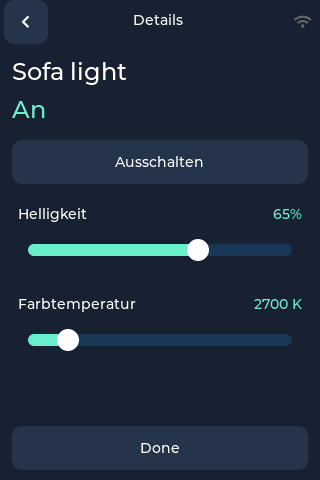
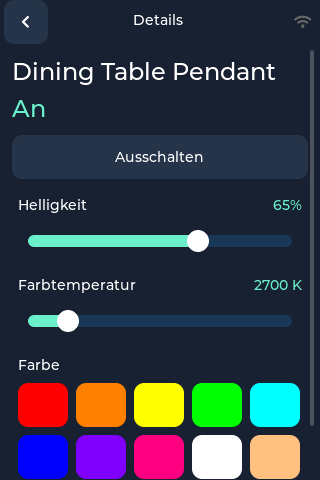
New layout on home assistant app

diff --git a/src/apps/HomeAssistantApp.cpp b/src/apps/HomeAssistantApp.cpp
@@ -24,12 +24,13 @@ void navigate(lv_event_t*e){auto n=HomeAssistantService::instance().config().pag
 void tap(lv_event_t*event){auto&s=HomeAssistantService::instance();auto&pages=s.config().pages;size_t i=reinterpret_cast<intptr_t>(lv_event_get_user_data(event));bool details=i>=ha::MaxTiles;i%=ha::MaxTiles;if(ctx.page>=pages.size()||i>=pages[ctx.page].tiles.size())return;ctx.detail=pages[ctx.page].tiles[i].id;auto d=ha::domain(ctx.detail);
  if(details||d=="sensor"||d=="binary_sensor"){ctx.view=1;render();return;}s.act(ctx.detail,d=="switch"||d=="light"?"toggle":"activate");refresh();}
 void toggle(lv_event_t*){HomeAssistantService::instance().act(ctx.detail,"toggle");refresh();}
+void color(lv_event_t*e){HomeAssistantService::instance().act(ctx.detail,"color",int(reinterpret_cast<intptr_t>(lv_event_get_user_data(e))));refresh();}
 void slider(lv_event_t*e){auto*o=static_cast<lv_obj_t*>(lv_event_get_target(e));const char*action=static_cast<const char*>(lv_event_get_user_data(e));HomeAssistantService::instance().act(ctx.detail,action,lv_slider_get_value(o));}
 const char*icon(const ha::Tile&t){auto kind=t.icon=="auto"||t.icon.empty()?ha::domain(t.id):t.icon;if(kind=="light")return LV_SYMBOL_CHARGE;if(kind=="switch"||kind=="power")return LV_SYMBOL_POWER;if(kind=="scene"||kind=="script"||kind=="play")return LV_SYMBOL_PLAY;if(kind=="water")return LV_SYMBOL_TINT;if(kind=="energy")return LV_SYMBOL_CHARGE;if(kind=="temperature")return "°";return LV_SYMBOL_EYE_OPEN;}
 std::string value(const ha::Entity*e){if(!e)return i18n::tr("Unavailable");const char*expected=HomeAssistantService::instance().expected_state(e->id);if(expected)return i18n::tr(std::string(expected)=="on"?"On":"Off");if(!e->available())return i18n::tr("Unavailable");auto d=ha::domain(e->id);if(d=="scene"||d=="script")return i18n::tr("Activate");if(e->state=="on")return i18n::tr("On");if(e->state=="off")return i18n::tr("Off");return e->state+(e->unit.empty()?"":" "+e->unit);}
-auto entity_fields(const ha::Entity&e){return std::tie(e.id,e.state,e.unit,e.brightness,e.kelvin,e.min_kelvin,e.max_kelvin,e.dimmable,e.warmth);}
+auto entity_fields(const ha::Entity&e){return std::tie(e.id,e.state,e.unit,e.brightness,e.kelvin,e.min_kelvin,e.max_kelvin,e.dimmable,e.warmth,e.color);}
 void render(){
- auto&s=HomeAssistantService::instance();ctx.revision=s.revision();ctx.connected=s.connected();ctx.status=nullptr;ctx.notice=nullptr;for(auto&t:ctx.tiles)t={};ctx.layout=s.layout_revision();lv_obj_clean(ctx.body);int w=lv_obj_get_width(ctx.body);lv_label_set_text(ctx.title,i18n::tr(ctx.view==2?"Configure Home":ctx.view==1?"Details":"Home"));
+ auto&s=HomeAssistantService::instance();ctx.revision=s.revision();ctx.connected=s.connected();ctx.status=nullptr;ctx.notice=nullptr;for(auto&t:ctx.tiles)t={};ctx.layout=s.layout_revision();lv_obj_clean(ctx.body);lv_obj_scroll_to_y(ctx.body,0,LV_ANIM_OFF);if(ctx.view==1)lv_obj_add_flag(ctx.body,LV_OBJ_FLAG_SCROLLABLE);else lv_obj_remove_flag(ctx.body,LV_OBJ_FLAG_SCROLLABLE);int w=lv_obj_get_width(ctx.body);lv_label_set_text(ctx.title,i18n::tr(ctx.view==2?"Configure Home":ctx.view==1?"Details":"Home"));
  if(ctx.view==2){
   label(ctx.body,i18n::tr("Scan with your phone"),12,12,w-24,Mint,true);
   if(!s.setup_open()){label(ctx.body,i18n::tr("Setup expired. Open it again."),12,60,w-24);button(ctx.body,i18n::tr("Configure"),12,120,w-24,44,setup);return;}
@@ -43,18 +44,27 @@ void render(){
   ctx.detail_notice=s.notice();ctx.detail_pending=s.pending(ctx.detail);
   ctx.detail_entity=s.entity(ctx.detail)?*s.entity(ctx.detail):ha::Entity{};
   auto*t=tile();auto*e=s.entity(ctx.detail);if(!t){ctx.view=0;render();return;}
-  auto*l=label(ctx.body,t->name.empty()?ctx.detail:t->name,12,14,w-24,0xffffff,true);lv_label_set_long_mode(l,LV_LABEL_LONG_DOT);
-  label(ctx.body,value(e),12,52,w-24,ctx.connected?Mint:Muted,true);
+  auto*l=label(ctx.body,t->name.empty()?ctx.detail:t->name,12,14,w-24,0xffffff,true);lv_obj_update_layout(l);int titleBottom=14+lv_obj_get_height(l);
+  label(ctx.body,value(e),12,titleBottom+10,w-24,ctx.connected?Mint:Muted,true);
   bool enabled=ctx.connected&&e&&e->available()&&!s.pending(ctx.detail);auto domain=ha::domain(ctx.detail);
+  int footer=std::max(382,titleBottom+90);
   if(domain=="light"){
-   auto*b=button(ctx.body,i18n::tr((s.expected_state(ctx.detail)?std::string(s.expected_state(ctx.detail))=="on":e&&e->state=="on")?"Turn off":"Turn on"),12,96,w-24,44,toggle);if(!enabled)lv_obj_add_state(b,LV_STATE_DISABLED);
-   int y=162;
-   auto add_slider=[&](const char*name,const char*action,int min,int max,int current,const std::string&v){label(ctx.body,i18n::tr(name),18,y,w-36);auto*l=label(ctx.body,v,w-100,y,82,Mint);lv_obj_set_style_text_align(l,LV_TEXT_ALIGN_RIGHT,0);auto*sl=lv_slider_create(ctx.body);lv_obj_set_pos(sl,28,y+38);lv_obj_set_size(sl,w-56,12);lv_slider_set_range(sl,min,max);lv_slider_set_value(sl,std::max(min,std::min(max,current)),LV_ANIM_OFF);lv_obj_set_style_bg_color(sl,lv_color_hex(Mint),LV_PART_INDICATOR);lv_obj_set_style_bg_color(sl,lv_color_white(),LV_PART_KNOB);lv_obj_add_event_cb(sl,slider,LV_EVENT_RELEASED,const_cast<char*>(action));if(!enabled)lv_obj_add_state(sl,LV_STATE_DISABLED);y+=90;};
+   auto*b=button(ctx.body,i18n::tr((s.expected_state(ctx.detail)?std::string(s.expected_state(ctx.detail))=="on":e&&e->state=="on")?"Turn off":"Turn on"),12,titleBottom+50,w-24,44,toggle);if(!enabled)lv_obj_add_state(b,LV_STATE_DISABLED);
+   int y=titleBottom+112;
+   auto add_slider=[&](const char*name,const char*action,int min,int max,int current,const std::string&v){label(ctx.body,i18n::tr(name),18,y,w-36);auto*l=label(ctx.body,v,w-100,y,82,Mint);lv_obj_set_style_text_align(l,LV_TEXT_ALIGN_RIGHT,0);auto*sl=lv_slider_create(ctx.body);lv_obj_set_pos(sl,28,y+38);lv_obj_set_size(sl,w-56,12);lv_slider_set_range(sl,min,max);lv_slider_set_value(sl,std::max(min,std::min(max,current)),LV_ANIM_OFF);lv_obj_set_style_bg_color(sl,lv_color_hex(Mint),LV_PART_INDICATOR);lv_obj_set_style_bg_color(sl,lv_color_white(),LV_PART_KNOB);lv_obj_add_event_cb(sl,slider,LV_EVENT_RELEASED,const_cast<char*>(action));if(!enabled)lv_obj_add_state(sl,LV_STATE_DISABLED);y+=80;};
    if(e&&e->dimmable)add_slider("Brightness","brightness",0,100,e->brightness<0?0:(e->brightness*100+127)/255,std::to_string(e->brightness<0?0:(e->brightness*100+127)/255)+"%");
    if(e&&e->warmth)add_slider("Warmth","warmth",e->min_kelvin,e->max_kelvin,e->kelvin,std::to_string(e->kelvin)+" K");
-  }else label(ctx.body,ctx.detail,12,112,w-24,Muted);
-  if(!s.notice().empty())label(ctx.body,i18n::tr(s.notice().c_str()),12,344,w-24,0xffc66d);
-  button(ctx.body,i18n::tr("Done"),12,382,w-24,44,back);return;
+   if(e&&e->color){
+    label(ctx.body,i18n::tr("Color"),18,y,w-36);y+=26;
+    const uint32_t colors[]={0xff0000,0xff8000,0xffff00,0x00ff00,0x00ffff,0x0000ff,0x8000ff,0xff0080,0xffffff,0xffc080};
+    int sw=(w-36-4*8)/5;
+    for(int i=0;i<10;++i){auto*b=button(ctx.body,"",18+(i%5)*(sw+8),y+(i/5)*52,sw,44,color,colors[i],colors[i]);if(!enabled)lv_obj_add_state(b,LV_STATE_DISABLED);}
+    y+=108;
+   }
+   footer=std::max(footer,y);
+  }else label(ctx.body,ctx.detail,12,titleBottom+70,w-24,Muted);
+  if(!s.notice().empty()){auto*n=label(ctx.body,i18n::tr(s.notice().c_str()),12,footer,w-24,0xffc66d);lv_obj_update_layout(n);footer+=lv_obj_get_height(n)+12;}
+  button(ctx.body,i18n::tr("Done"),12,footer,w-24,44,back);return;
  }
  auto&pages=s.config().pages;
  if(pages.empty()||s.config().token.empty()){
@@ -62,14 +72,14 @@ void render(){
  }
  ctx.page=std::min(ctx.page,pages.size()-1);auto&p=pages[ctx.page];auto*heading=label(ctx.body,p.name,12,8,w-72,0xffffff,true);lv_label_set_long_mode(heading,LV_LABEL_LONG_DOT);button(ctx.body,LV_SYMBOL_SETTINGS,w-54,2,44,44,setup);
  ctx.status=label(ctx.body,i18n::tr(ctx.connected?"Connected - refreshes every 5s":s.busy()?"Connecting...":"Disconnected"),12,47,w-24,ctx.connected?Mint:Muted);
- int tw=(w-36)/2;
- for(size_t i=0;i<p.tiles.size();++i){auto&t=p.tiles[i];auto*b=button(ctx.body,"",12+(i%2)*(tw+12),66+(i/2)*94,tw,84,tap,i);
+ int tw=w-24;
+ for(size_t i=0;i<p.tiles.size();++i){auto&t=p.tiles[i];auto*b=button(ctx.body,"",12,66+i*47,tw,44,tap,i);
   bool light=ha::domain(t.id)=="light";int content=tw-(light?44:0);
-  if(light){auto*more=button(b,LV_SYMBOL_RIGHT,tw-44,0,44,84,tap,i+ha::MaxTiles);lv_obj_set_style_bg_opa(more,LV_OPA_TRANSP,0);lv_obj_remove_flag(more,LV_OBJ_FLAG_EVENT_BUBBLE);}
-  auto*symbol=label(b,icon(t),(content-24)/2,5,24,Muted,true);lv_obj_clear_flag(symbol,LV_OBJ_FLAG_CLICKABLE);
-  auto*name=label(b,t.name.empty()?t.id:t.name,6,35,content-12);lv_obj_set_style_text_align(name,LV_TEXT_ALIGN_CENTER,0);lv_obj_set_height(name,18);lv_label_set_long_mode(name,LV_LABEL_LONG_DOT);
-  auto*v=label(b,"",6,60,content-12);lv_obj_set_style_text_align(v,LV_TEXT_ALIGN_CENTER,0);lv_label_set_long_mode(v,LV_LABEL_LONG_DOT);
-  auto*pending=lv_spinner_create(b);lv_obj_set_size(pending,16,16);lv_obj_set_pos(pending,content-20,6);lv_spinner_set_anim_params(pending,900,180);lv_obj_set_style_arc_width(pending,2,LV_PART_MAIN);lv_obj_set_style_arc_width(pending,2,LV_PART_INDICATOR);lv_obj_remove_flag(pending,LV_OBJ_FLAG_CLICKABLE);lv_obj_add_flag(pending,LV_OBJ_FLAG_HIDDEN);
+  if(light){auto*more=button(b,LV_SYMBOL_RIGHT,tw-44,0,44,44,tap,i+ha::MaxTiles);lv_obj_set_style_bg_opa(more,LV_OPA_TRANSP,0);lv_obj_remove_flag(more,LV_OBJ_FLAG_EVENT_BUBBLE);}
+  auto*symbol=label(b,icon(t),10,14,18,Muted);lv_obj_clear_flag(symbol,LV_OBJ_FLAG_CLICKABLE);
+  auto*name=label(b,t.name.empty()?t.id:t.name,36,4,content-42);lv_obj_set_style_text_align(name,LV_TEXT_ALIGN_LEFT,0);lv_obj_set_height(name,18);lv_label_set_long_mode(name,LV_LABEL_LONG_SCROLL_CIRCULAR);
+  auto*v=label(b,"",36,24,content-62);lv_obj_set_style_text_align(v,LV_TEXT_ALIGN_LEFT,0);lv_label_set_long_mode(v,LV_LABEL_LONG_DOT);
+  auto*pending=lv_spinner_create(b);lv_obj_set_size(pending,16,16);lv_obj_set_pos(pending,content-20,24);lv_spinner_set_anim_params(pending,900,180);lv_obj_set_style_arc_width(pending,2,LV_PART_MAIN);lv_obj_set_style_arc_width(pending,2,LV_PART_INDICATOR);lv_obj_remove_flag(pending,LV_OBJ_FLAG_CLICKABLE);lv_obj_add_flag(pending,LV_OBJ_FLAG_HIDDEN);
   ctx.tiles[i]={b,symbol,v,pending};
  }
  if(p.tiles.empty())label(ctx.body,i18n::tr("This page is empty. Add tiles in setup."),12,100,w-24,Muted);
@@ -82,7 +92,7 @@ void refresh(){
  auto&s=HomeAssistantService::instance();
  auto*detail=s.entity(ctx.detail);
  if(ctx.view==1&&ctx.layout==s.layout_revision()&&ctx.connected==s.connected()&&ctx.detail_notice==s.notice()&&ctx.detail_pending==s.pending(ctx.detail)&&((detail&&entity_fields(ctx.detail_entity)==entity_fields(*detail))||(!detail&&ctx.detail_entity.id.empty()))){ctx.revision=s.revision();ctx.connected=s.connected();return;}
- if(ctx.view!=0||!ctx.status||ctx.layout!=s.layout_revision()){render();return;}
+ if(ctx.view!=0||!ctx.status||ctx.layout!=s.layout_revision()){int scroll=lv_obj_get_scroll_y(ctx.body);bool detailView=ctx.view==1;render();if(detailView)lv_obj_scroll_to_y(ctx.body,scroll,LV_ANIM_OFF);return;}
  ctx.revision=s.revision();ctx.connected=s.connected();
  auto text=[](lv_obj_t*l,const std::string&v){if(v!=lv_label_get_text(l))lv_label_set_text(l,v.c_str());};
  text(ctx.status,i18n::tr(ctx.connected?"Connected - refreshes every 5s":s.busy()?"Connecting...":"Disconnected"));

diff --git a/test/home-assistant/regression.cpp b/test/home-assistant/regression.cpp
@@ -19,12 +19,19 @@ int main(int argc,char**argv){
  using namespace ha;assert(argc>=2);std::string url=argv[1],error;
  assert(valid_entity("light.sofa"));assert(!valid_entity("lock.front_door"));assert(!valid_entity("light.sofa/../../"));assert(!valid_entity("light.sofa.x"));assert(!valid_entity("sensor."));
  assert(valid_url(url));assert(!valid_url("https://user:pass@host"));assert(!valid_url("file:///tmp/x"));assert(!valid_url("https://host/path"));assert(!valid_url("http://host\r\nHeader:x"));
- Config c;c.url=url;c.token="test-token";c.pages={{"Living room",{{"light.sofa","Sofa light","light"},{"switch.ceiling","Ceiling","power"},{"sensor.temperature","Temperature","temperature"},{"sensor.humidity","Humidity","water"},{"scene.movie","Movie night","play"},{"script.all_off","All off","power"}}},{"Energy",{{"sensor.solar","Solar","energy"}}}};
+ Config c;c.url=url;c.token="test-token";c.pages={{"Living room",{{"light.sofa","Dining Table Pendant","light"},{"switch.ceiling","Ceiling","power"},{"sensor.temperature","Temperature","temperature"},{"sensor.humidity","Humidity","water"},{"scene.movie","Movie night","play"},{"script.all_off","All off","power"}}},{"Energy",{{"sensor.solar","Solar","energy"}}}};
  auto raw=config_json(c,true);Config parsed;if(!parse_config(raw,parsed,error)){std::fprintf(stderr,"Config error: %s; %s\n",error.c_str(),raw.c_str());std::abort();}assert(parsed.pages.size()==2&&parsed.pages[0].tiles.size()==6);
  assert(config_json(c).find("test-token")==std::string::npos);assert(parse_config(config_json(c),parsed,error,&c)&&parsed.token==c.token);
  auto bad=c;bad.url="http://other";assert(!parse_config(config_json(bad),parsed,error,&c));bad=c;bad.pages[0].tiles.push_back(bad.pages[0].tiles[0]);assert(!parse_config(config_json(bad,true),parsed,error));bad=c;bad.pages[0].tiles[0].id="lock.front";assert(!parse_config(config_json(bad,true),parsed,error));
  Entity e;e.id="light.sofa";e.state="on";e.dimmable=true;e.warmth=true;std::string path,body;
  assert(command(c,e,"toggle",0,path,body)&&path=="/api/services/light/turn_off");assert(command(c,e,"brightness",65,path,body)&&body.find("65")!=std::string::npos);assert(!command(c,e,"brightness",101,path,body));assert(!command(c,e,"warmth",10,path,body));assert(!command(c,e,"delete",0,path,body));e.state="unavailable";assert(!command(c,e,"toggle",0,path,body));e.state="on";e.id="light.unselected";assert(!command(c,e,"toggle",0,path,body));
+ // Only color-capable lights accept RGB commands, including HA-converted modes.
+ for(const char*mode:{"hs","xy","rgb","rgbw","rgbww","color_temp","brightness","onoff"}){
+  Entity light;assert(parse_entity(std::string(R"({"entity_id":"light.sofa","state":"on","attributes":{"supported_color_modes":[")")+mode+R"("]}})",light,error));
+  bool supported=std::string(mode)!="color_temp"&&std::string(mode)!="brightness"&&std::string(mode)!="onoff";
+  assert(light.color==supported);assert(command(c,light,"color",0xff0080,path,body)==supported);
+  if(supported){assert(path=="/api/services/light/turn_on"&&body.find("\"rgb_color\":[255,0,128]")!=std::string::npos);assert(!command(c,light,"color",-1,path,body));assert(!command(c,light,"color",0x1000000,path,body));light.state="unavailable";assert(!command(c,light,"color",0xff0000,path,body));}
+ }
  Entity invalidEntity;assert(!parse_entity("[]",invalidEntity,error));assert(!parse_entity(std::string(1048577,'x'),invalidEntity,error));
  // Frame across arbitrary chunk boundaries, including escaped quotes/braces.
  const std::string framed=R"([{"entity_id":"sensor.test","state":"ok","attributes":{"friendly_name":"Test \" { [","ignored":{"x":[1,2]}}},{"entity_id":"lock.door","state":"locked"}])";
@@ -35,7 +42,7 @@ int main(int argc,char**argv){
  EntityStream next(256);assert(request(c,"/api/states?large","",largeResponse,error,&next));assert(next.matches==607&&next.items.size()==256&&next.items[0].id!=first.items[0].id);
  EntityStream search(0,"extra_599","sensor");assert(request(c,"/api/states?large","",largeResponse,error,&search));assert(search.matches==1&&search.items[0].id=="sensor.extra_599");
  auto&s=HomeAssistantService::instance();assert(s.begin());assert(s.configure(raw,error));assert(s.begin());assert(s.config().pages[0].tiles.size()==6&&s.config().token=="test-token");assert(s.discover());finish(s);assert(s.connected()&&s.entities().size()==7);assert(s.entity("light.sofa")->dimmable&&s.entity("light.sofa")->warmth);
- assert(s.act("light.sofa","brightness",65));finish(s);assert(s.notice().empty());assert(!s.act("sensor.temperature","toggle"));
+ assert(s.act("light.sofa","brightness",65));finish(s);assert(s.notice().empty());assert(s.act("light.sofa","color",0xff0080));finish(s);assert(!s.act("sensor.temperature","toggle"));
  assert(s.open_setup());auto setupUrl=s.setup_url();auto key=setupUrl.substr(setupUrl.find('#')+1);int status;
  assert(s.setup_request("GET","/api/config","bad","",status).find("error")!=std::string::npos&&status==403);
  auto publicConfig=s.setup_request("GET","/api/config",key,"",status);assert(status==200&&publicConfig.find("test-token")==std::string::npos);
@@ -62,6 +69,8 @@ int main(int argc,char**argv){
   s._result=s._entities;s._result[0].state=oldState;s._job=0;s._running=true;s._finished=true;s.loop();assert(!s.pending("light.sofa"));
   auto*chevron=lv_obj_get_child(originalTile,0);assert(lv_obj_get_width(chevron)==44&&!lv_obj_has_flag(chevron,LV_OBJ_FLAG_EVENT_BUBBLE));
   lv_obj_send_event(chevron,LV_EVENT_CLICKED,nullptr);assert(ctx.view==1&&ctx.detail=="light.sofa"&&!s.busy());capture((std::string("home-light-")+language).c_str());
+  lv_obj_scroll_to_y(ctx.body,1000,LV_ANIM_OFF);capture((std::string("home-color-")+language).c_str());
+  auto*swatch=lv_obj_get_child(ctx.body,-11);lv_obj_send_event(swatch,LV_EVENT_CLICKED,nullptr);assert(s.busy()&&s._job_body.find("rgb_color")!=std::string::npos);finish(s);refresh();
   auto*detailChild=lv_obj_get_child(ctx.body,0);s._running=true;++s._revision;refresh();assert(lv_obj_get_child(ctx.body,0)==detailChild);s._running=false;
   setup(nullptr);assert(ctx.view==2);capture((std::string("home-setup-")+language).c_str());
   auto*screen=ctx.screen;ctx.view=0;back(nullptr);lv_obj_delete(screen);assert(!s._active&&!s.setup_open()&&!ctx.timer);

diff --git a/src/services/HomeAssistantModel.cpp b/src/services/HomeAssistantModel.cpp
@@ -45,7 +45,7 @@ Entity decode_entity(JsonObjectConst o){
  if(e.name.size()>128)e.name.resize(128);if(e.state.size()>128)e.state.resize(128);if(e.unit.size()>24)e.unit.resize(24);
  e.brightness=a["brightness"]|-1;e.kelvin=a["color_temp_kelvin"]|0;e.min_kelvin=a["min_color_temp_kelvin"]|2000;e.max_kelvin=a["max_color_temp_kelvin"]|6500;
  e.min_kelvin=std::max(1000,std::min(10000,e.min_kelvin));e.max_kelvin=std::max(e.min_kelvin,std::min(10000,e.max_kelvin));
- for(JsonVariantConst m:a["supported_color_modes"].as<JsonArrayConst>()){std::string mode=m|"";if(mode!="onoff"&&mode!="unknown"&&!mode.empty())e.dimmable=true;if(mode=="color_temp")e.warmth=true;}
+ for(JsonVariantConst m:a["supported_color_modes"].as<JsonArrayConst>()){std::string mode=m|"";if(mode!="onoff"&&mode!="unknown"&&!mode.empty())e.dimmable=true;if(mode=="color_temp")e.warmth=true;if(mode=="hs"||mode=="xy"||mode=="rgb"||mode=="rgbw"||mode=="rgbww")e.color=true;}
  return e;
 }
 }
@@ -62,6 +62,7 @@ bool command(const Config&c,const Entity&e,const std::string&action,int value,st
  else if((kind=="scene"||kind=="script")&&action=="activate")service="turn_on";
  else if(kind=="light"&&action=="brightness"&&e.dimmable&&value>=0&&value<=100){service="turn_on";d["brightness_pct"]=value;}
  else if(kind=="light"&&action=="warmth"&&e.warmth&&value>=e.min_kelvin&&value<=e.max_kelvin){service="turn_on";d["color_temp_kelvin"]=value;}
+ else if(kind=="light"&&action=="color"&&e.color&&value>=0&&value<=0xffffff){service="turn_on";auto rgb=d["rgb_color"].to<JsonArray>();rgb.add((value>>16)&255);rgb.add((value>>8)&255);rgb.add(value&255);}
  else return false;
  path="/api/services/"+kind+"/"+service;body.clear();serializeJson(d,body);return true;
 }

diff --git a/scripts/test-home-assistant.py b/scripts/test-home-assistant.py
@@ -17,7 +17,7 @@ subprocess.run(['node','test/home-assistant/setup-browser.test.cjs'],check=True)
 commands = []
 large_mode = False
 entities = [
- {'entity_id':'light.sofa','state':'on','attributes':{'friendly_name':'Sofa light','brightness':166,'color_temp_kelvin':2700,'min_color_temp_kelvin':2000,'max_color_temp_kelvin':6500,'supported_color_modes':['color_temp']}},
+ {'entity_id':'light.sofa','state':'on','attributes':{'friendly_name':'Sofa light','brightness':166,'color_temp_kelvin':2700,'min_color_temp_kelvin':2000,'max_color_temp_kelvin':6500,'supported_color_modes':['color_temp','rgb']}},
  {'entity_id':'switch.ceiling','state':'off','attributes':{'friendly_name':'Ceiling'}},
  {'entity_id':'sensor.temperature','state':'22.5','attributes':{'friendly_name':'Temperature','unit_of_measurement':'°C'}},
  {'entity_id':'sensor.humidity','state':'48','attributes':{'friendly_name':'Humidity','unit_of_measurement':'%'}},
@@ -60,6 +60,7 @@ with tempfile.TemporaryDirectory(prefix='home-test-') as temporary:
  env=dict(os.environ,ASAN_OPTIONS='detect_leaks=0',GADGET_OS_DATA_DIR=temporary)
  subprocess.run([str(binary),url],env=env,check=True,timeout=45)
  assert ('/api/services/light/turn_on',{'entity_id':'light.sofa','brightness_pct':65}) in commands
+ assert ('/api/services/light/turn_on',{'entity_id':'light.sofa','rgb_color':[255,0,128]}) in commands
  # Exercise the actual bounded HTTP listener and pairing authentication.
  proc=subprocess.Popen([str(binary),url,'--serve'],env=env,stdout=subprocess.PIPE,text=True)
  try:

diff --git a/include/services/HomeAssistantModel.h b/include/services/HomeAssistantModel.h
@@ -9,7 +9,7 @@ struct Config { std::string url,token,ca; std::vector<Page> pages; };
 struct Entity {
  std::string id,name,state,unit;
  int brightness=-1,kelvin=0,min_kelvin=2000,max_kelvin=6500;
- bool dimmable=false,warmth=false;
+ bool dimmable=false,warmth=false,color=false;
  bool available()const{return !state.empty()&&state!="unknown"&&state!="unavailable";}
 };
 std::string domain(const std::string&);

diff --git a/USER_GUIDE.md b/USER_GUIDE.md
@@ -431,7 +431,7 @@ required.
    that lamp are ignored while pending; other controls queue normally. If the
    request fails or is not confirmed within 30 seconds, the tile returns to the
    last confirmed state and briefly shows an error. Tap its right-hand chevron to open
-   details with power and supported brightness/colour-temperature controls. Switches
+   details with power, supported brightness/colour-temperature controls, and colour swatches for colour-capable lights. Scroll the details to reach all controls. Device rows use small icons and scroll long names so the full name can be read. Switches
    toggle directly; scenes and scripts activate directly. Sensors open a read-only
    detail view.
 
